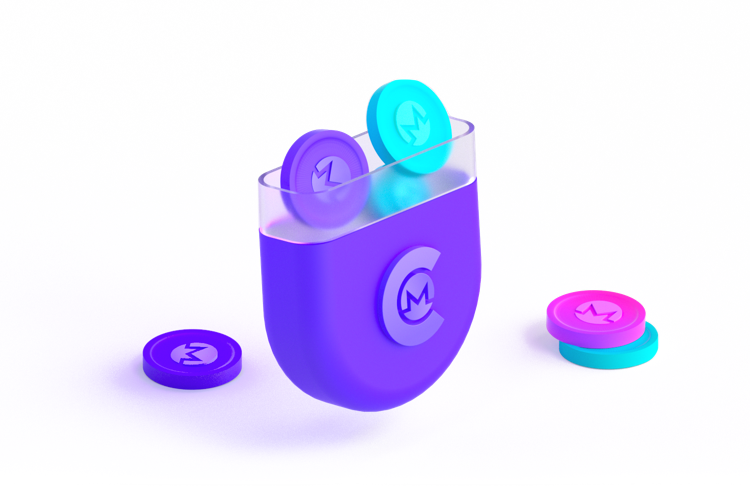
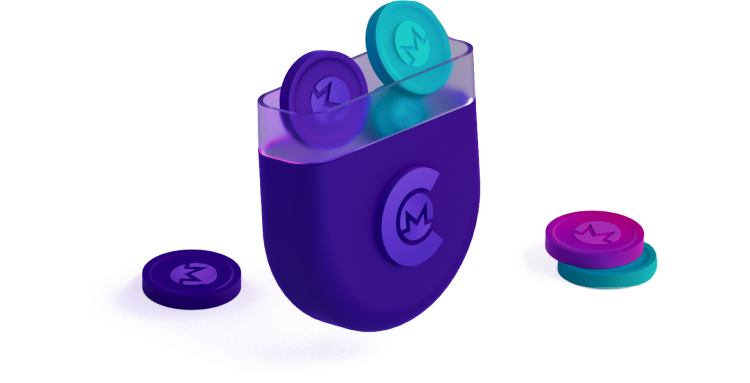
CWA-63 | Fixed new wallet page

Changed region(s): [[0.1533, 0.0, 0.644, 0.9191], [0.6747, 0.5457, 0.8893, 0.7755]]

diff --git a/lib/src/screens/new_wallet/new_wallet_page.dart b/lib/src/screens/new_wallet/new_wallet_page.dart
@@ -16,7 +16,7 @@ import 'package:cake_wallet/theme_changer.dart';
 import 'package:cake_wallet/themes.dart';
 
 class NewWalletPage extends BasePage {
-  static const _aspectRatioImage = 1.54;
+  static const _aspectRatioImage = 1.95;
   static final _image = Image.asset('assets/images/bitmap.png');
   static final backArrowImage = Image.asset('assets/images/back_arrow.png');
 
@@ -24,7 +24,7 @@ class NewWalletPage extends BasePage {
   final WalletService walletService;
   final SharedPreferences sharedPreferences;
 
-  String get title => 'New wallet';
+  String get title => 'New Wallet';
 
   NewWalletPage(
       {@required this.walletsService,
@@ -115,27 +115,43 @@ class _WalletNameFormState extends State<WalletNameForm> {
         key: _formKey,
         child: Column(
           children: <Widget>[
-            Row(
-              children: <Widget>[
-                Expanded(
-                  child: TextFormField(
-                    controller: nameController,
-                    decoration: InputDecoration(
-                        hintStyle: TextStyle(color: Palette.lightBlue),
-                        hintText: 'Wallet name',
-                        focusedBorder: UnderlineInputBorder(
-                            borderSide: BorderSide(
-                                color: Palette.lightGrey, width: 2.0)),
-                        enabledBorder: UnderlineInputBorder(
-                            borderSide: BorderSide(
-                                color: Palette.lightGrey, width: 2.0))),
-                    validator: (value) {
-                      if (value.isEmpty) return 'Please enter a wallet name';
-                      return null;
-                    },
-                  ),
-                )
-              ],
+            Container(
+              padding: EdgeInsets.only(left: 10.0, right: 10.0),
+              child: Row(
+                children: <Widget>[
+                  Expanded(
+                    child: TextFormField(
+                      style: TextStyle(
+                          fontSize: 24.0,
+                          color: _isDarkTheme ? PaletteDark.wildDarkBlueWithOpacity
+                              : Colors.black
+                      ),
+                      controller: nameController,
+                      decoration: InputDecoration(
+                          hintStyle: TextStyle(
+                              fontSize: 24.0,
+                              color: _isDarkTheme ? PaletteDark.wildDarkBlueWithOpacity
+                                  : Palette.lightBlue
+                          ),
+                          hintText: 'Wallet name',
+                          focusedBorder: UnderlineInputBorder(
+                              borderSide: BorderSide(
+                                  color: _isDarkTheme ? PaletteDark.darkThemeGrey
+                                      : Palette.lightGrey,
+                                  width: 1.0)),
+                          enabledBorder: UnderlineInputBorder(
+                              borderSide: BorderSide(
+                                  color: _isDarkTheme ? PaletteDark.darkThemeGrey
+                                      : Palette.lightGrey,
+                                  width: 1.0))),
+                      validator: (value) {
+                        if (value.isEmpty) return 'Please enter a wallet name';
+                        return null;
+                      },
+                    ),
+                  )
+                ],
+              ),
             ),
             Expanded(
                 child: Container(
@@ -152,7 +168,7 @@ class _WalletNameFormState extends State<WalletNameForm> {
                           text: 'Continue',
                           color: _isDarkTheme ? PaletteDark.darkThemePurpleButton
                               : Palette.purple,
-                          borderColor: _isDarkTheme ? PaletteDark.darkThemeViolet
+                          borderColor: _isDarkTheme ? PaletteDark.darkThemePurpleButtonBorder
                               : Palette.deepPink,
                           isLoading:
                               walletCreationStore.state is WalletIsCreating,

diff --git a/lib/palette.dart b/lib/palette.dart
@@ -56,4 +56,5 @@ class PaletteDark {
   static const Color darkThemePinButton = Color.fromRGBO(136, 155, 183, 0.1);
   static const Color darkThemePinDigitButton = Color.fromRGBO(100, 115, 137, 0.34);
   static const Color switchBackground = Color.fromRGBO(100, 115, 137, 0.4);
+  static const Color wildDarkBlueWithOpacity = Color.fromRGBO(155, 172, 197, 0.4);
 }
